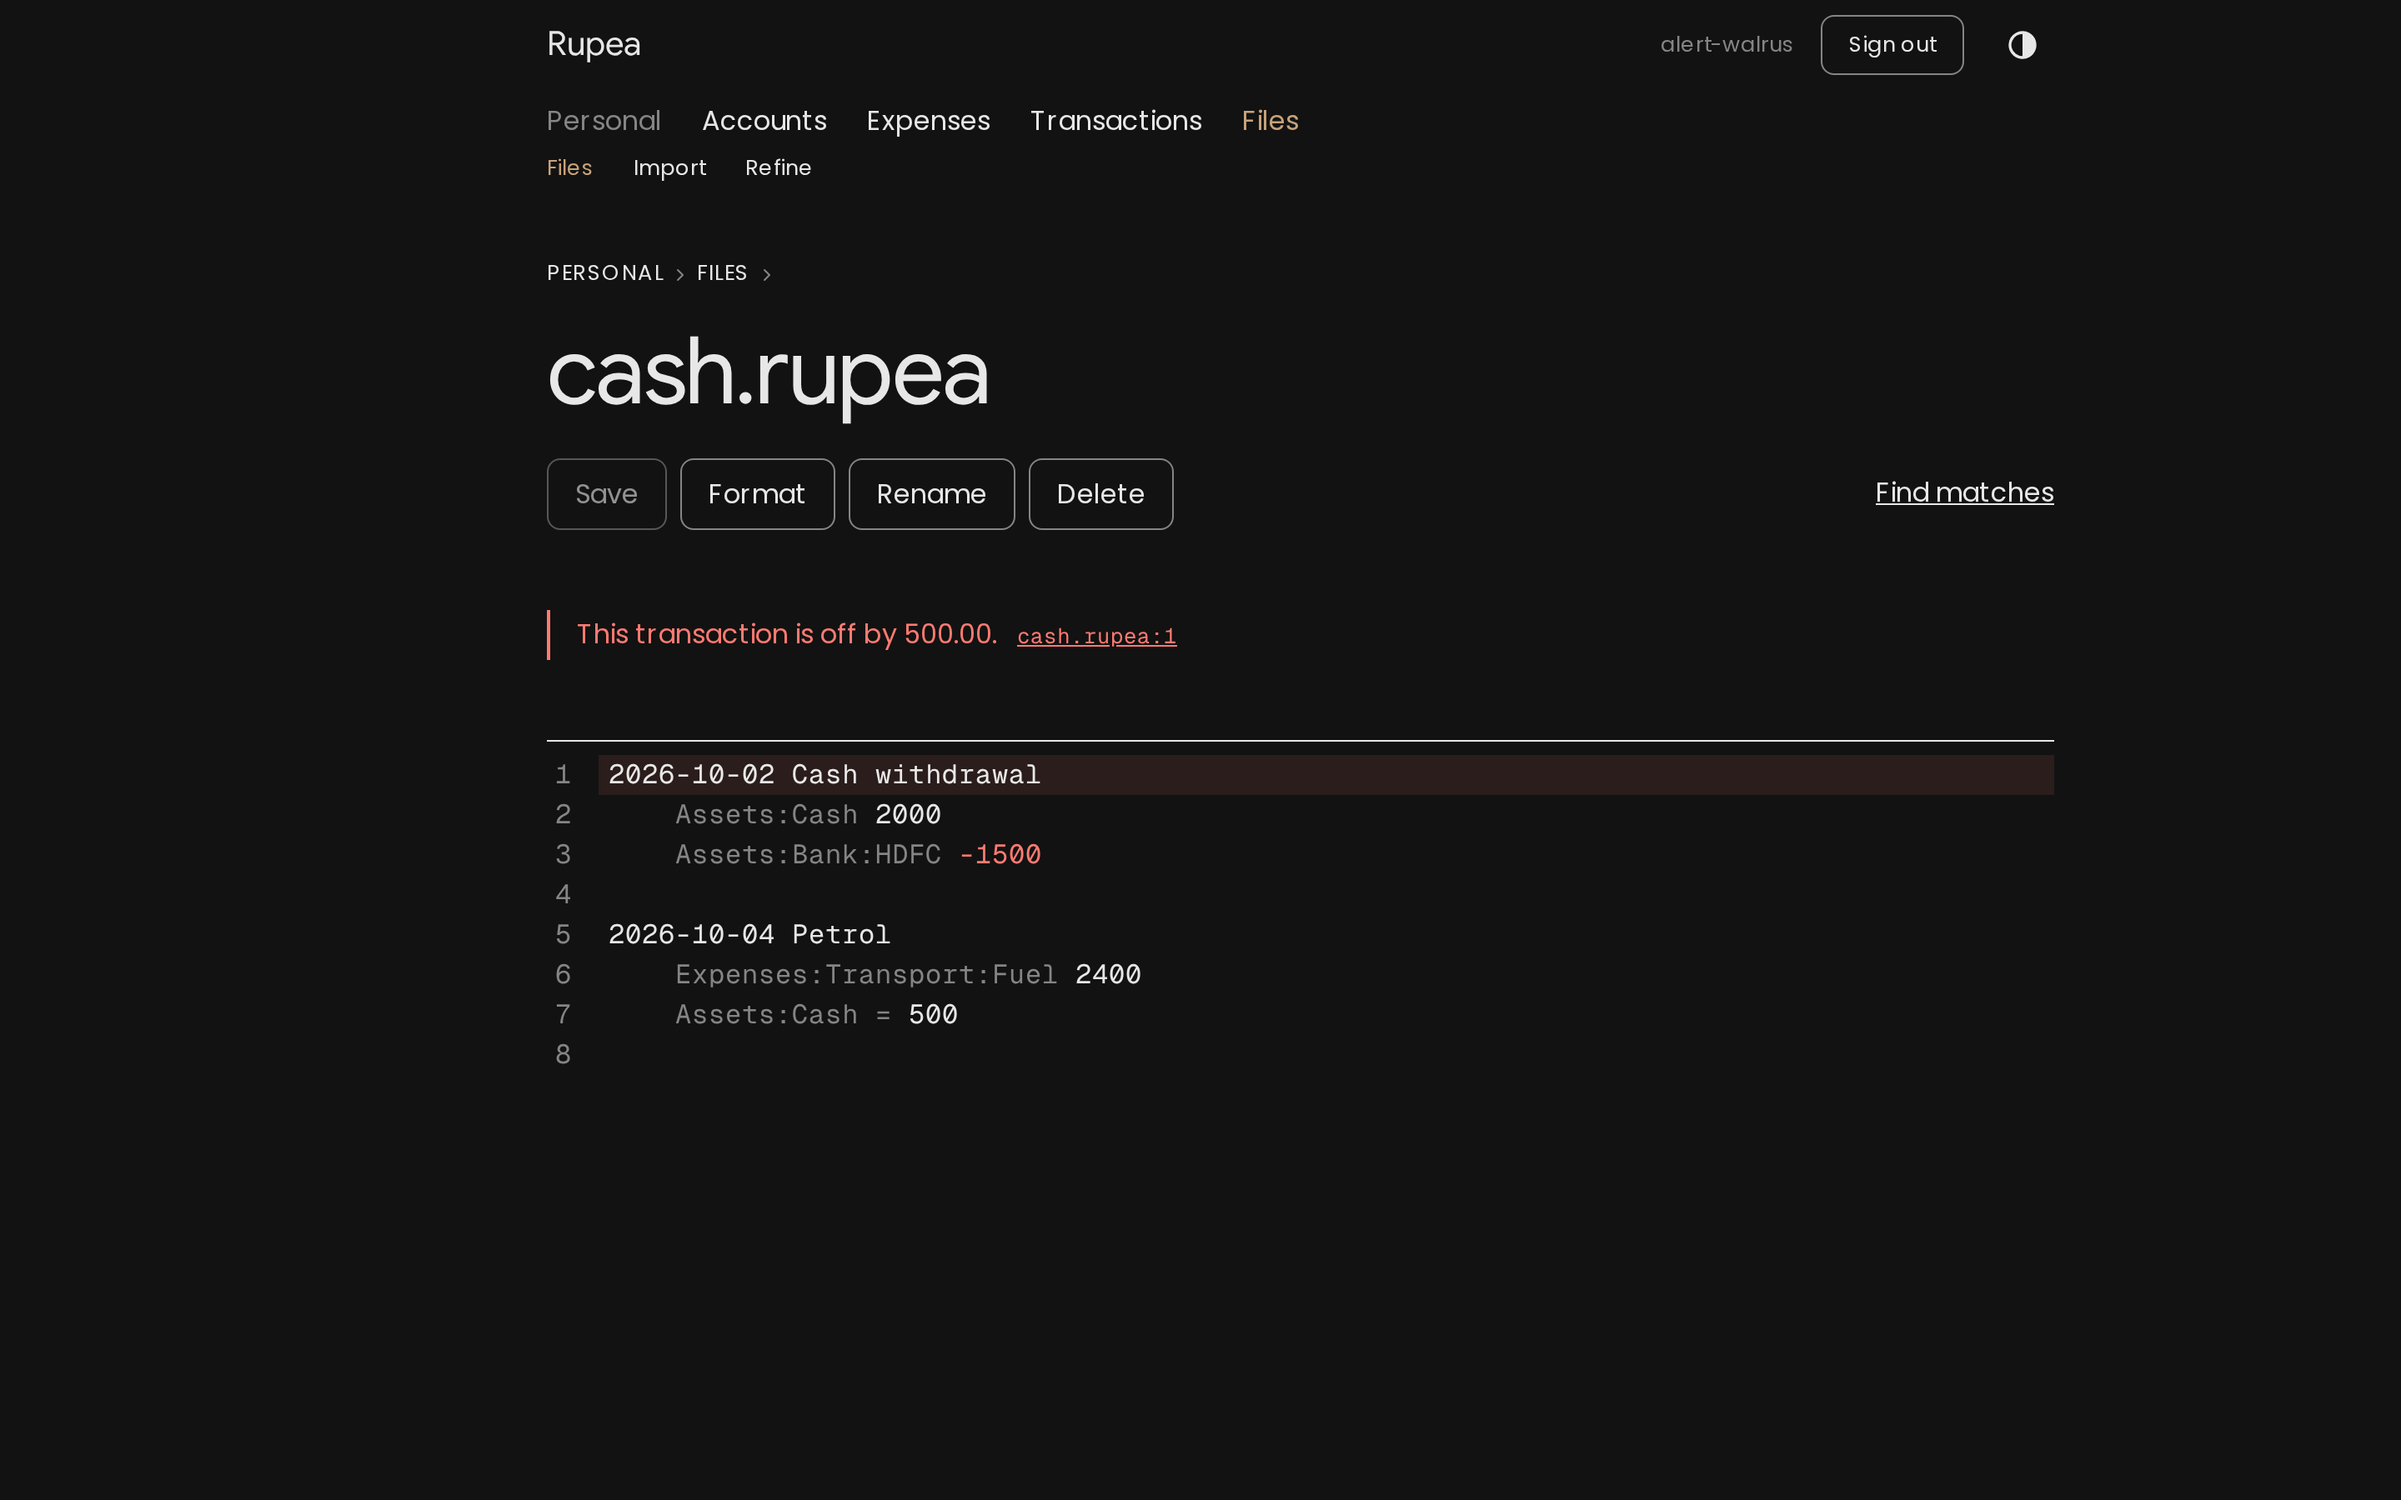
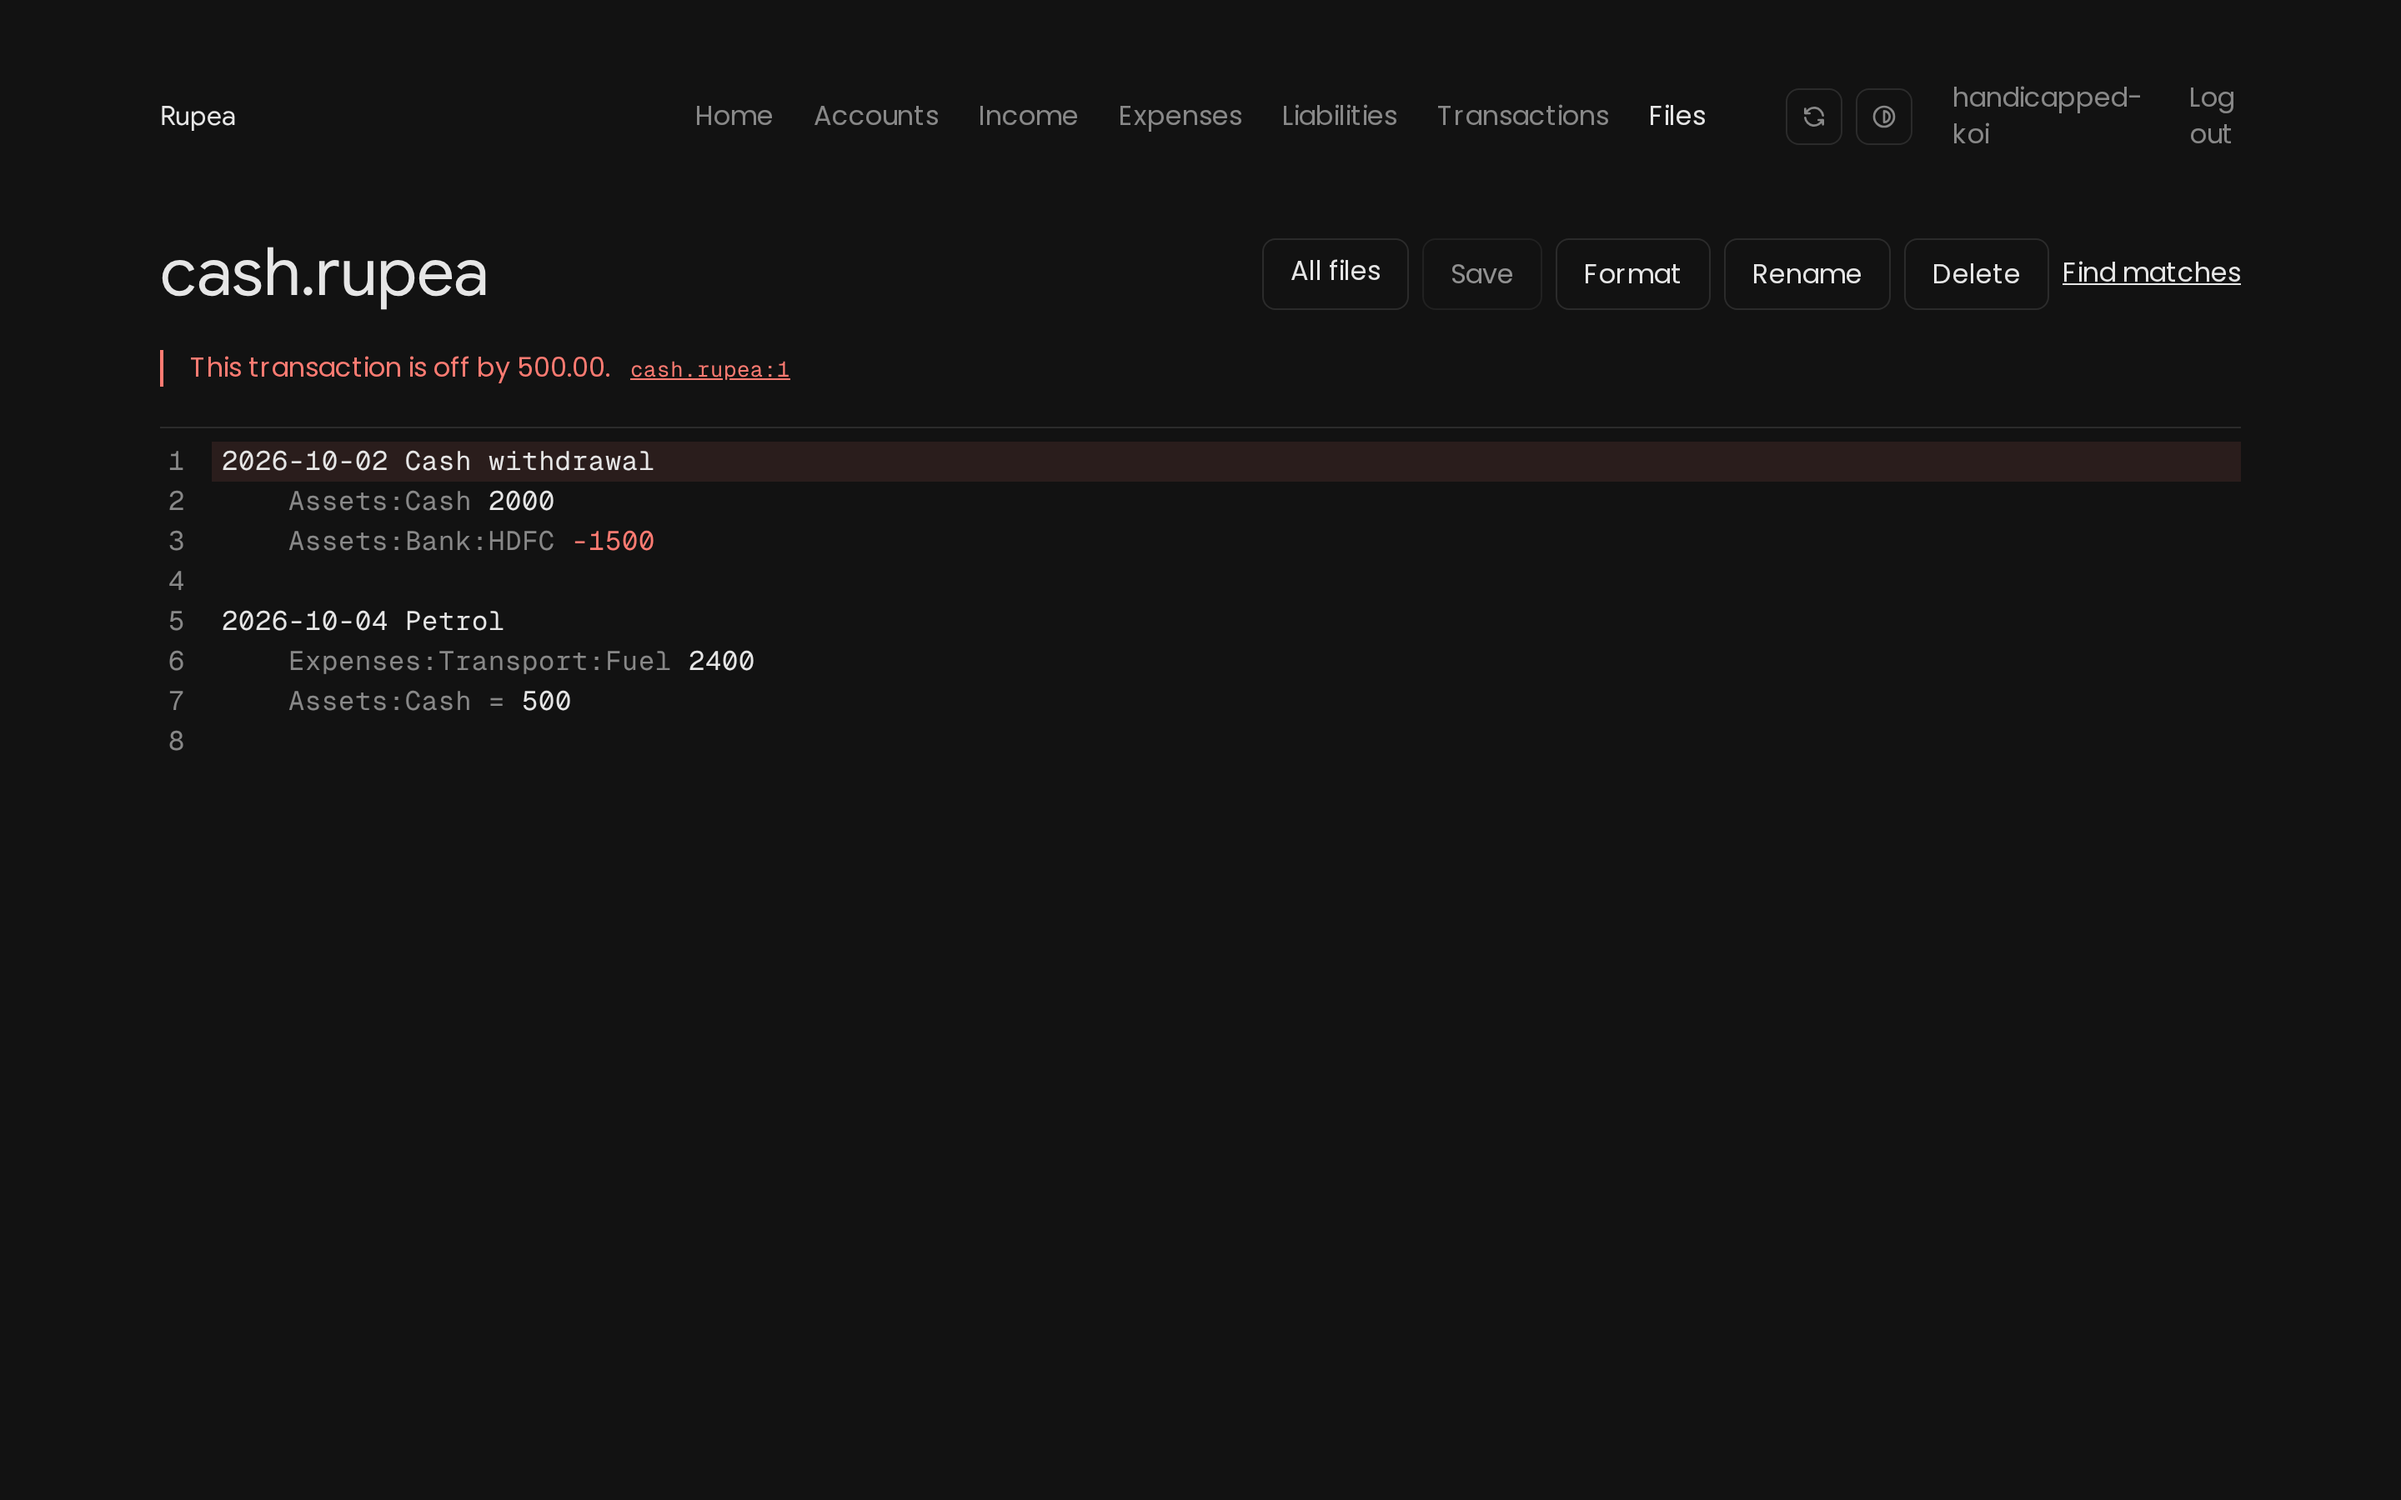
docs(site): drop the mark beside the name and retake the screenshots
The header and footer show the name alone. The screenshots show the
new top bar, the d3 charts and the home page's look.

diff --git a/packages/site/src/site.css b/packages/site/src/site.css
@@ -69,9 +69,6 @@ footer.bar nav {
 }
 
 .brand {
-	display: inline-flex;
-	align-items: center;
-	gap: var(--size-1);
 	font-family: var(--font-heading);
 	font-size: var(--font-size-2);
 	font-weight: 500;
